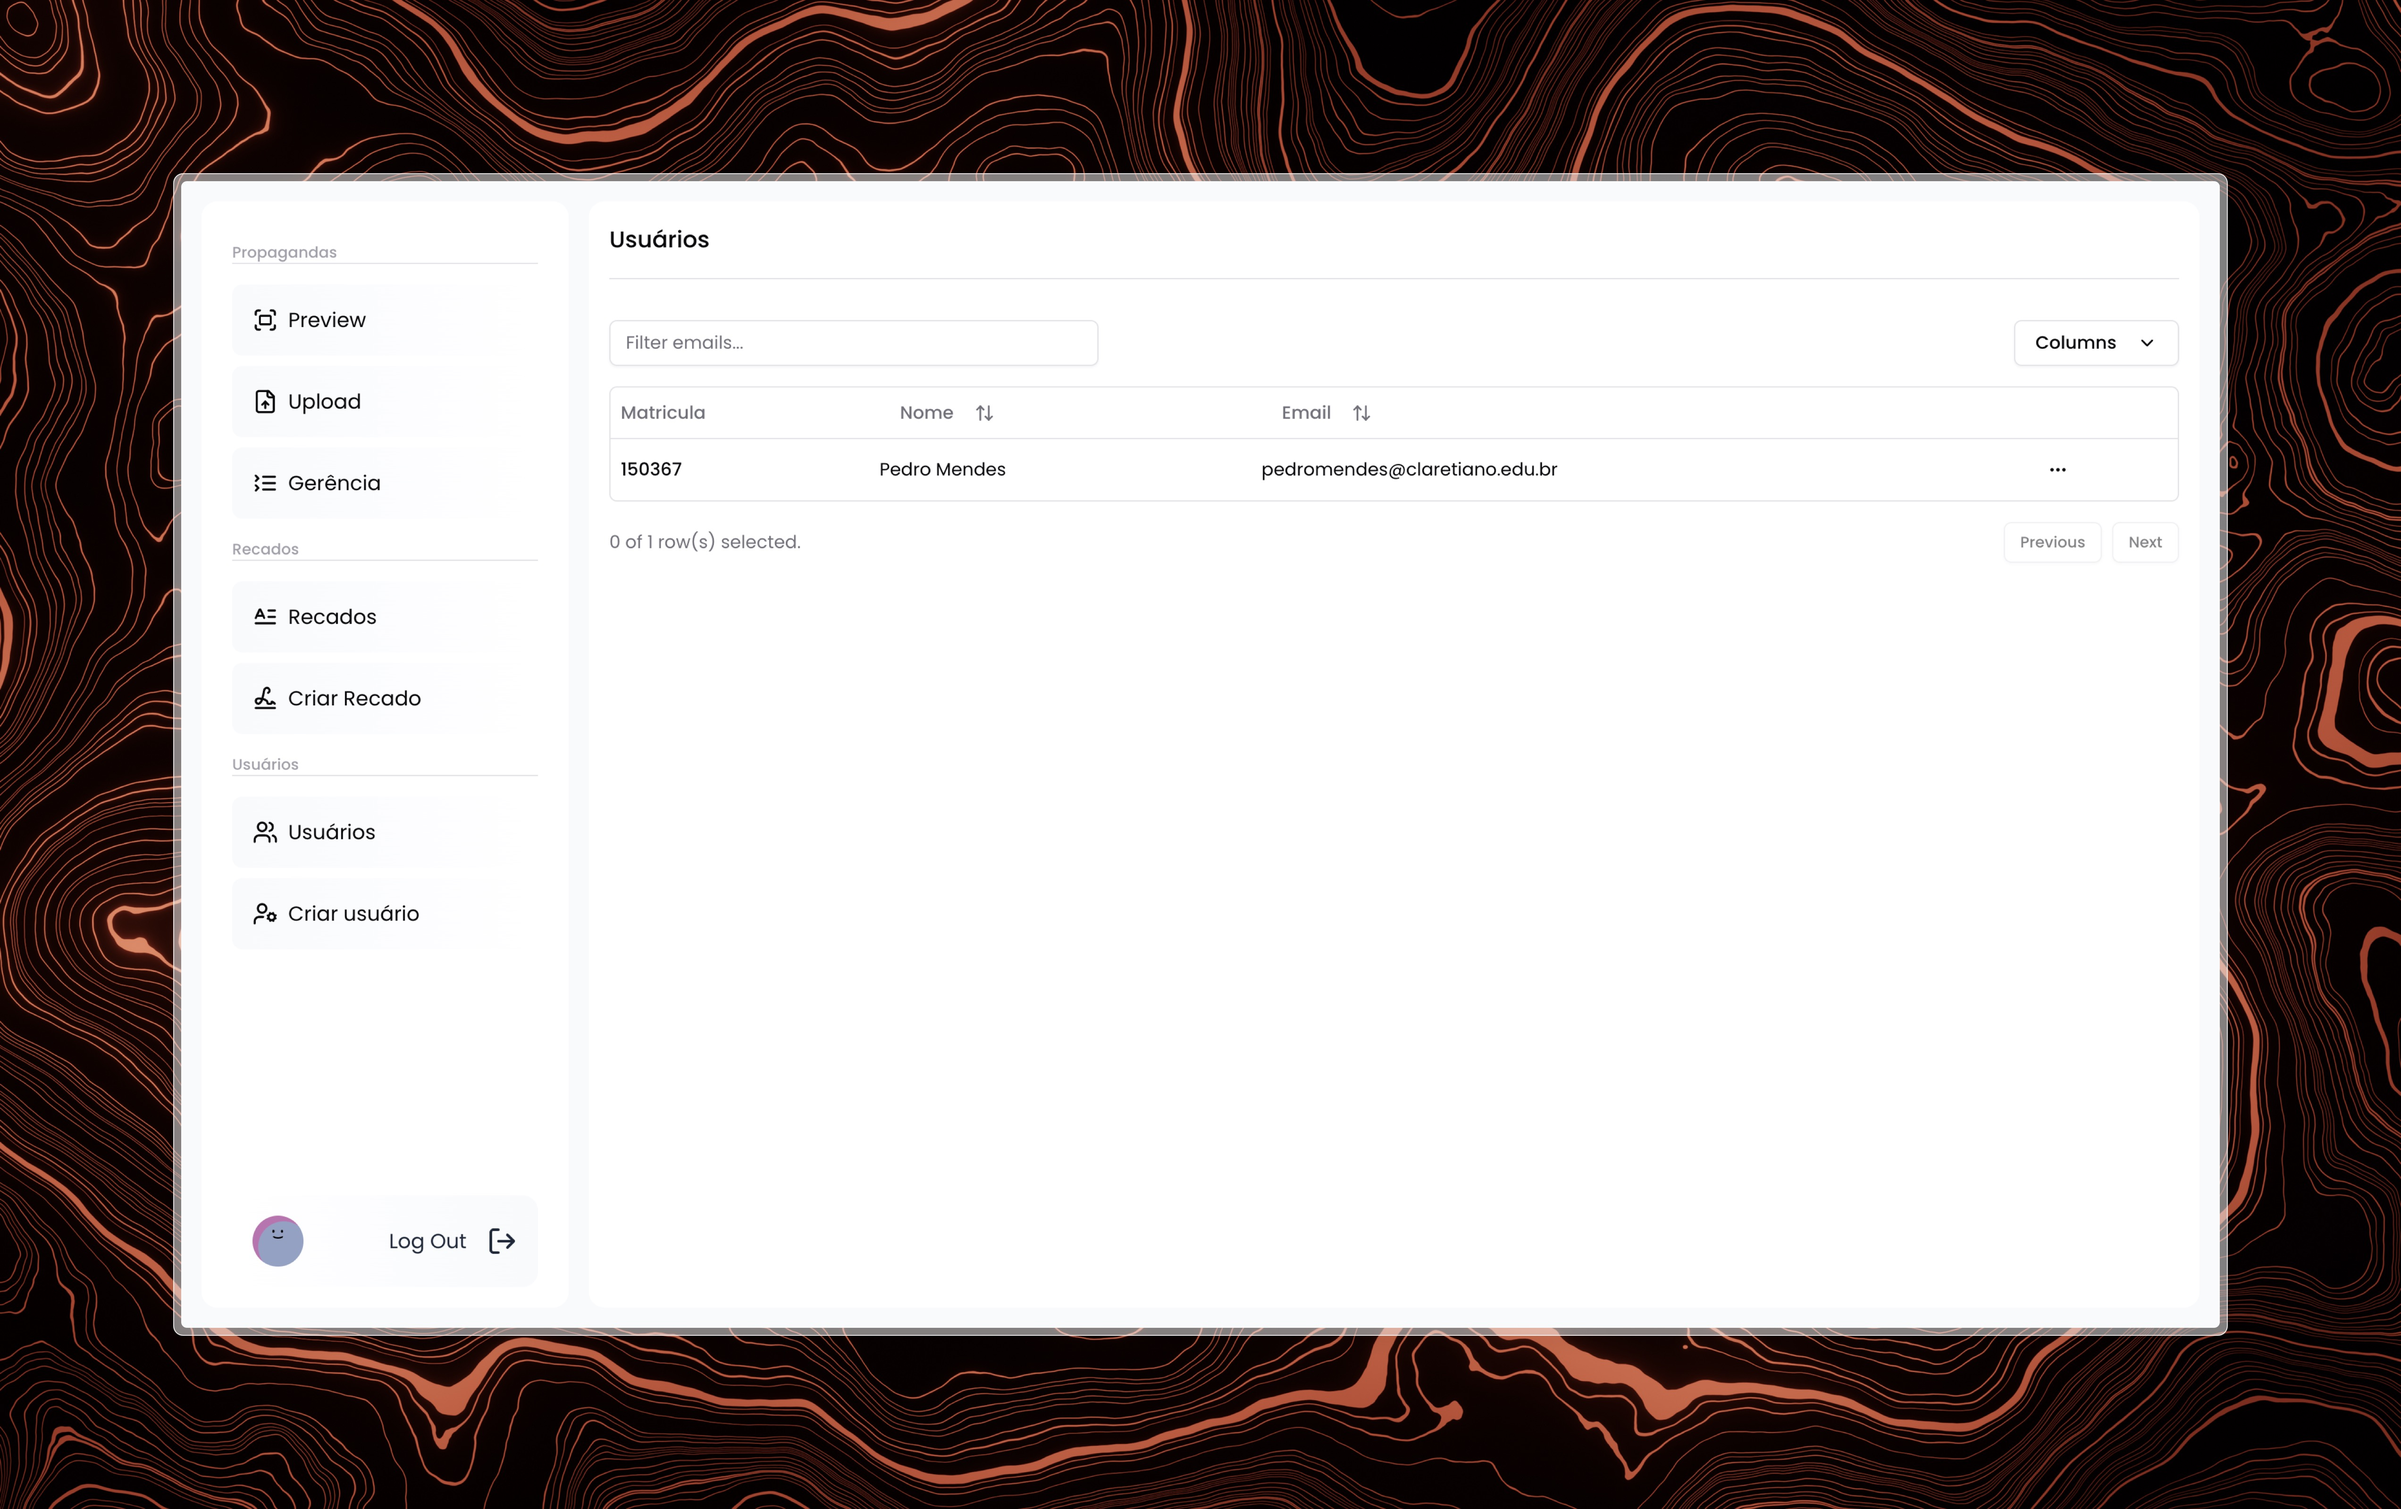
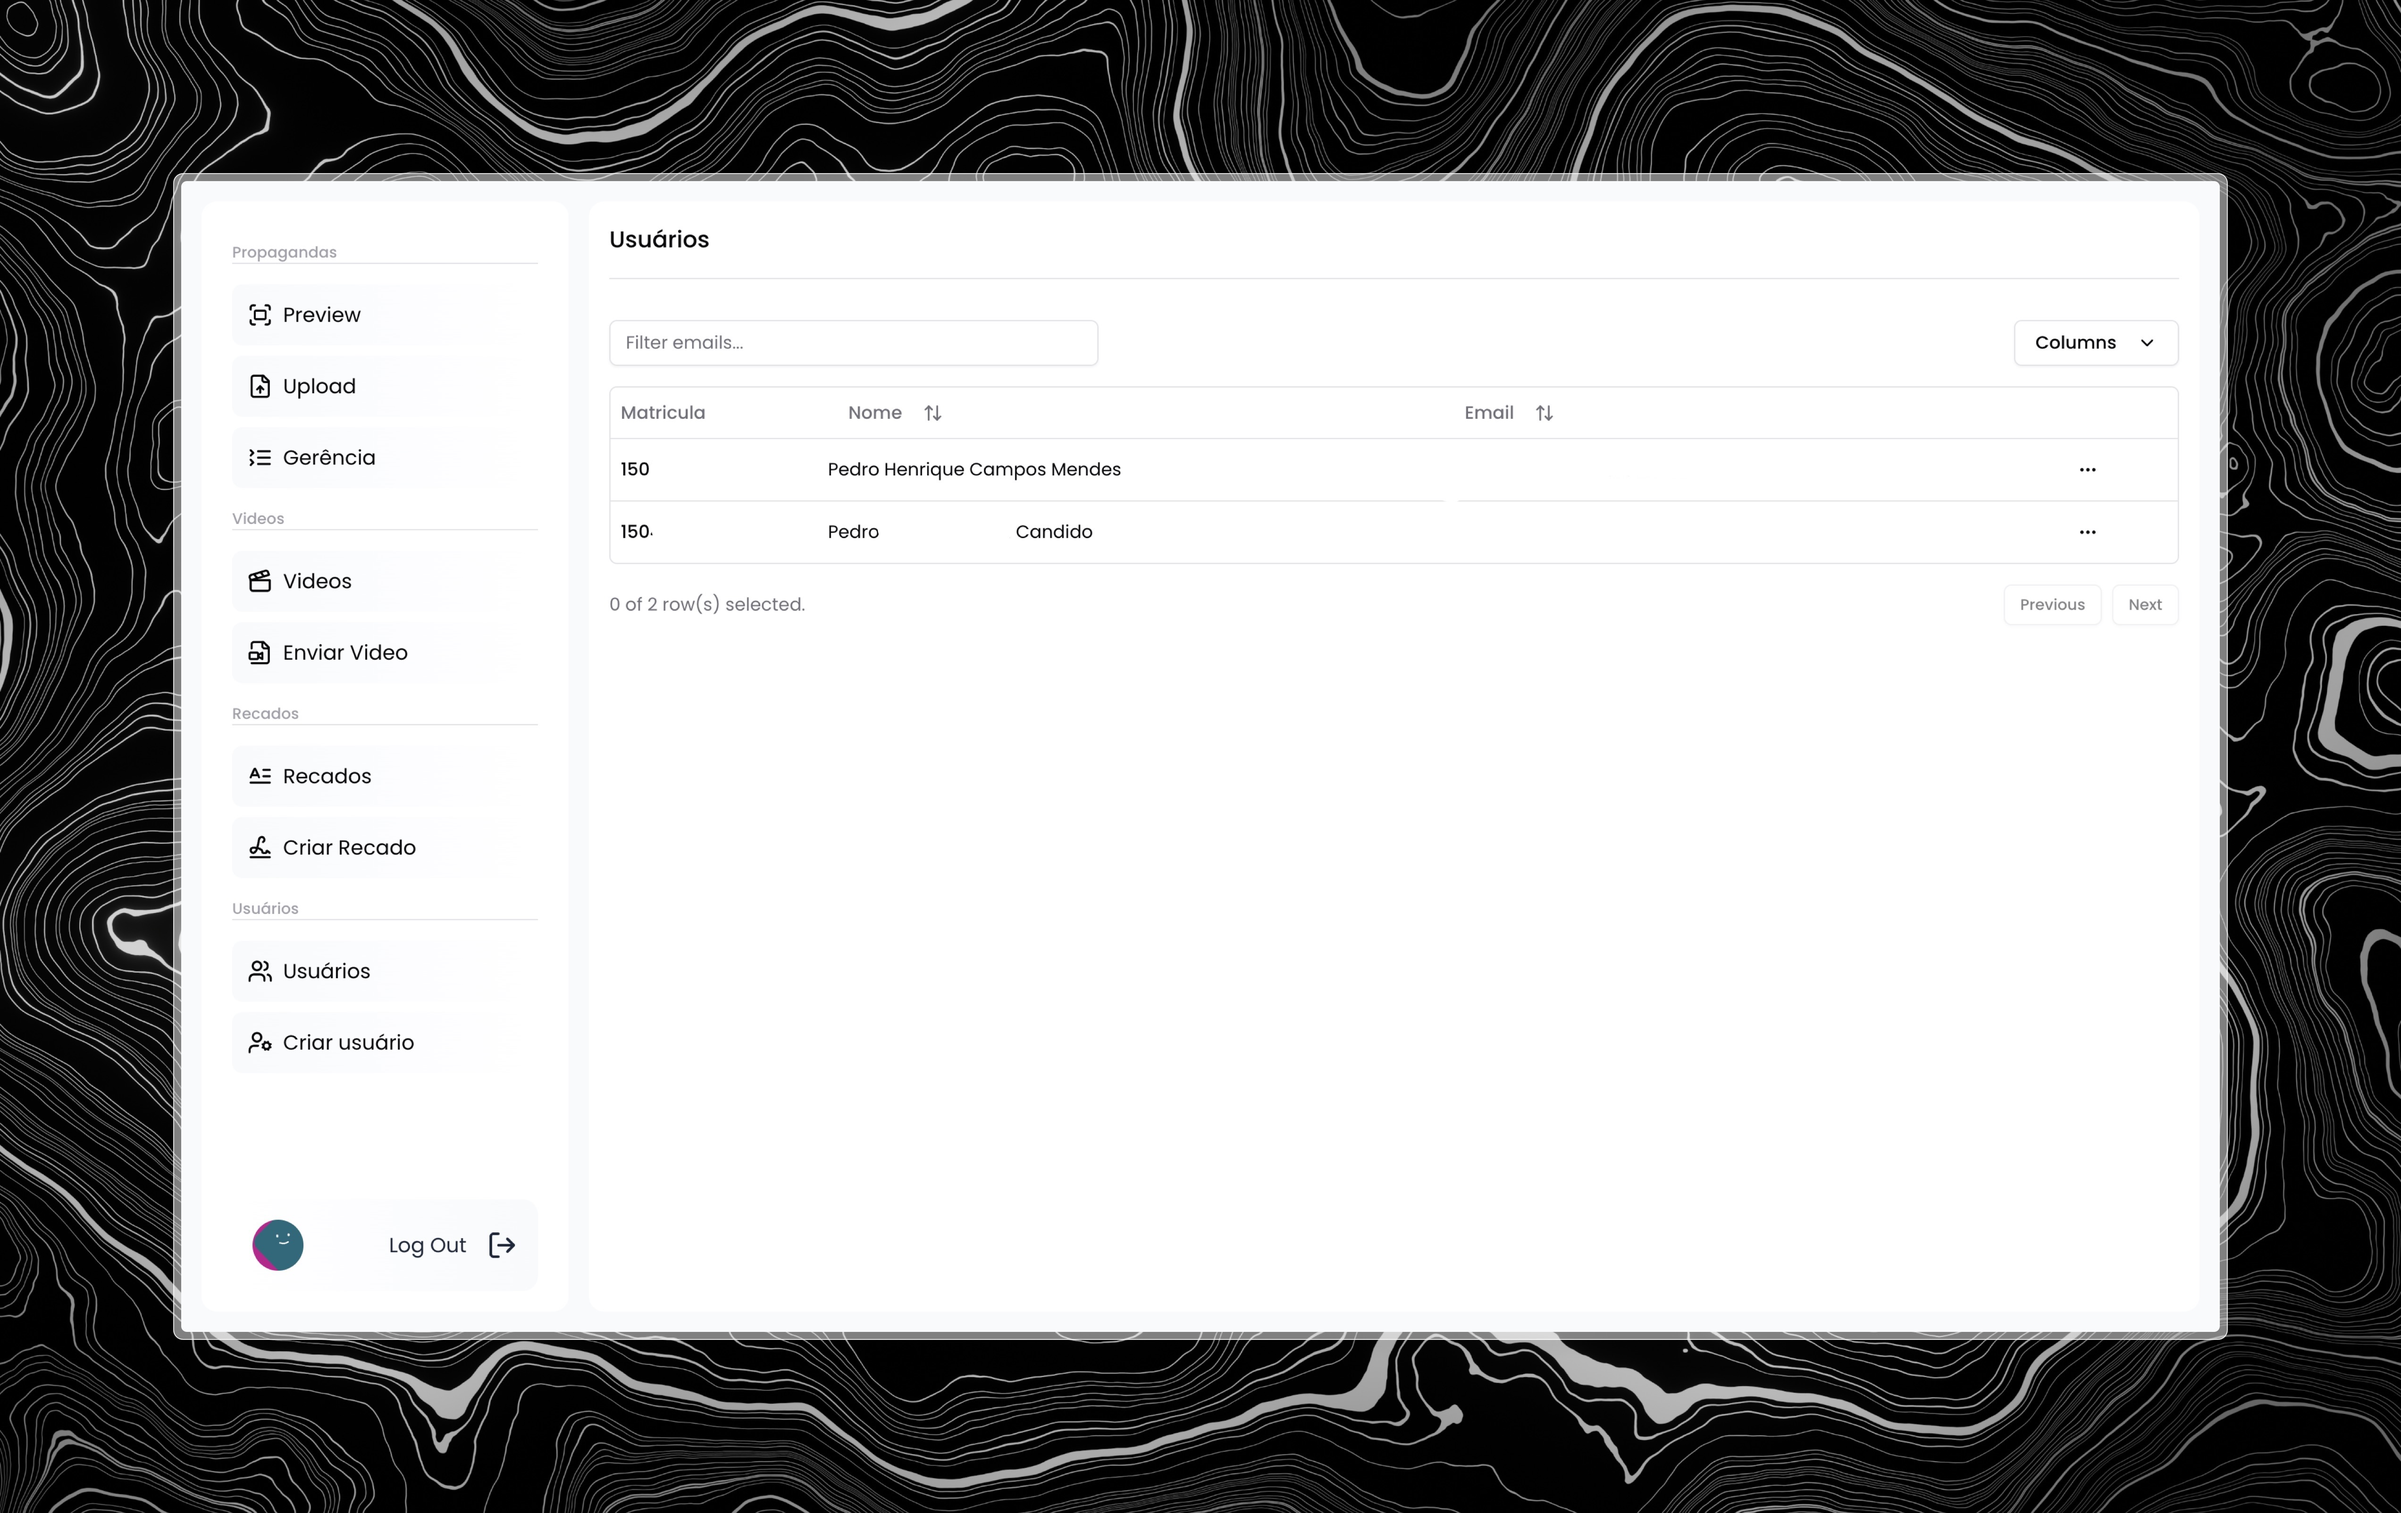
feat: update pictures

diff --git a/src/util/stack.ts b/src/util/stack.ts
@@ -84,13 +84,16 @@ export const projectsData: ProjectBody[] = [
 		id: 0,
 		ProjectName: "Advertisement System",
 		images: [
-			"/propagandas/home.jpeg",
-			"/propagandas/home-with-message.jpeg",
+			"/propagandas/propagandas.jpeg",
+			"/propagandas/video.jpeg",
 			"/propagandas/login.jpeg",
-			"/propagandas/img-admin.jpeg",
-			"/propagandas/img-create.jpeg",
-			"/propagandas/messages-admin.jpeg",
-			"/propagandas/create-message.jpeg",
+			"/propagandas/uploads.jpeg",
+			"/propagandas/gerencia.jpeg",
+			"/propagandas/upload-video.jpeg",
+			"/propagandas/videos.jpeg",
+			"/propagandas/criar-recado.jpeg",
+			"/propagandas/recado.jpeg",
+			"/propagandas/criar-user.jpeg",
 			"/propagandas/users.jpeg",
 		],
 		description: [
